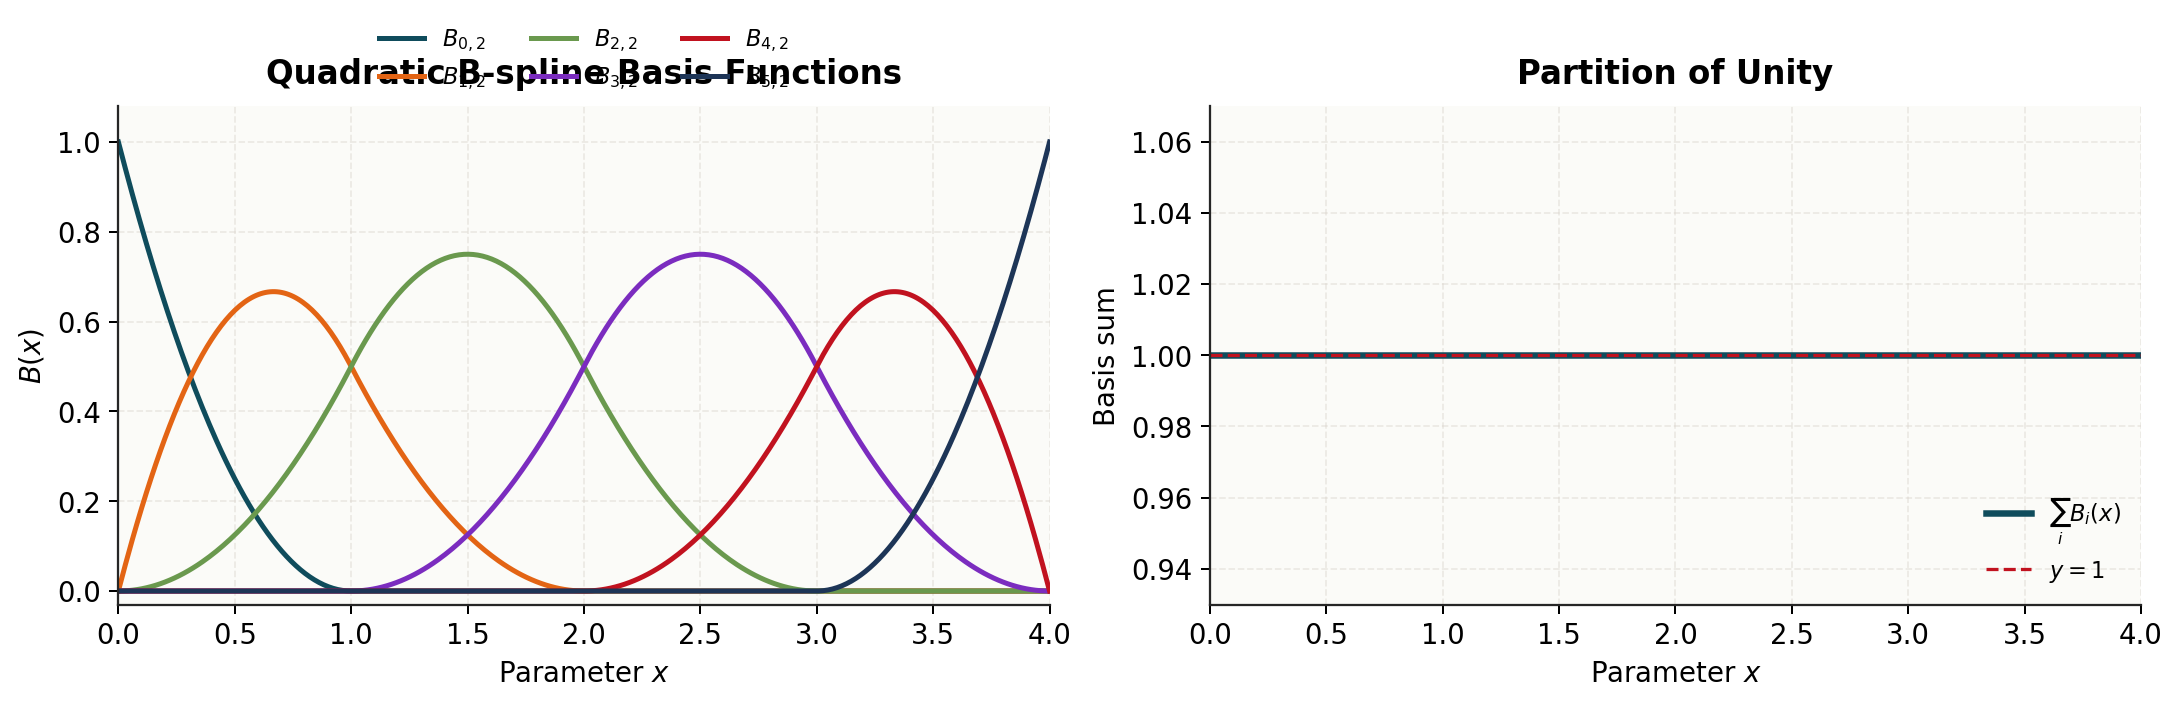
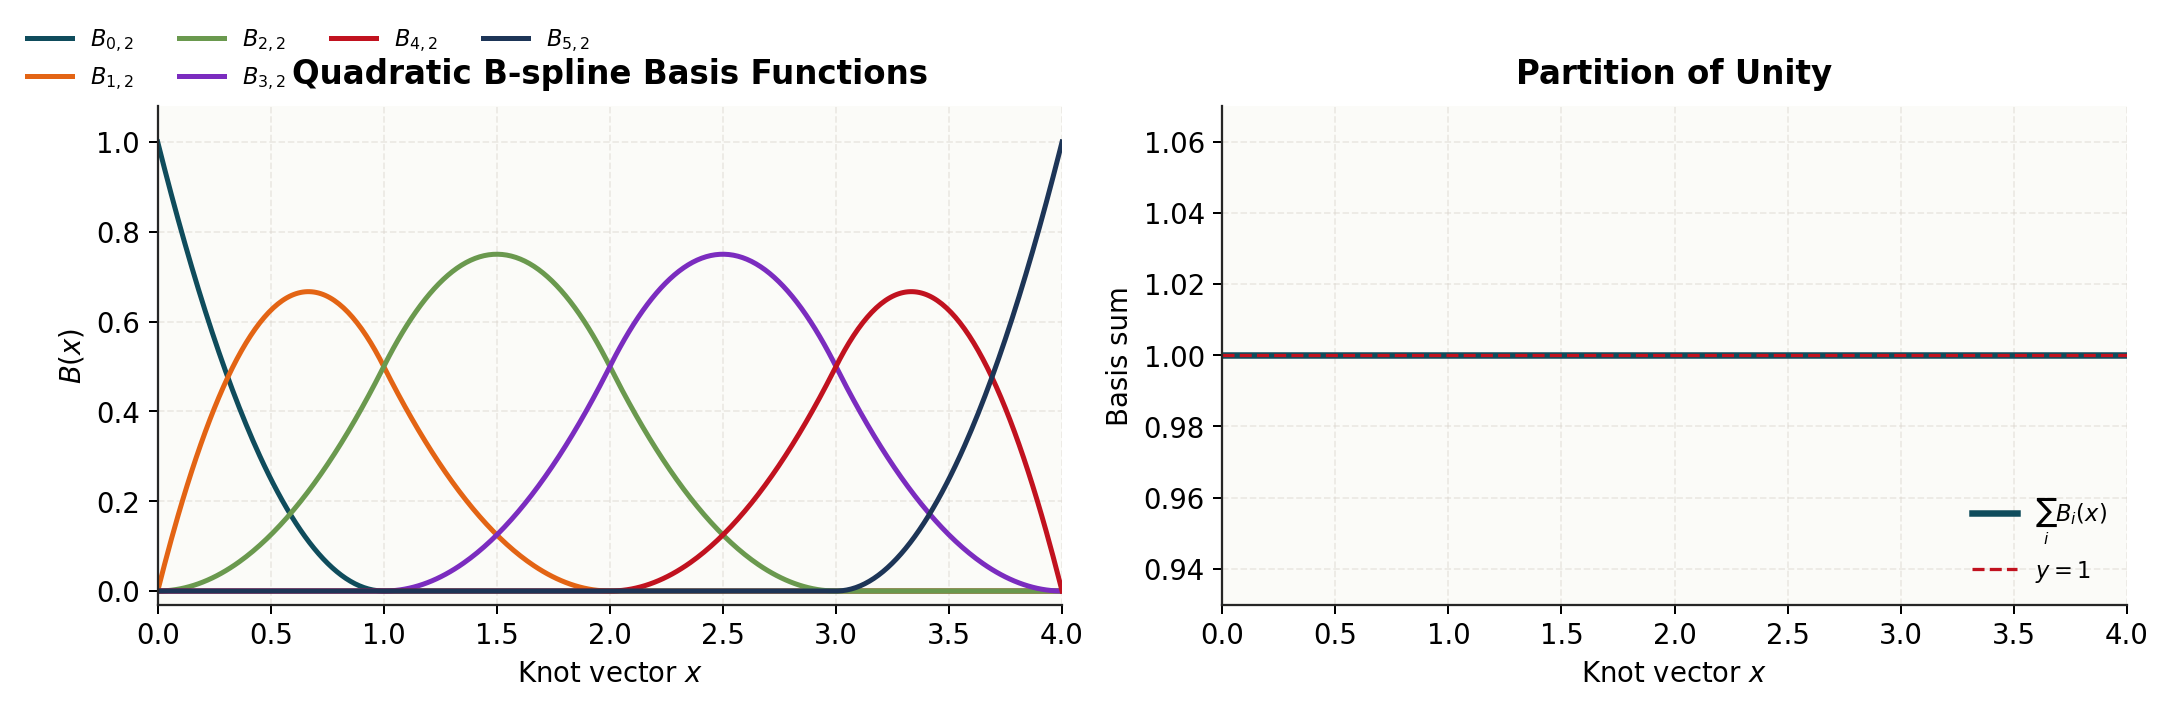
correct the error

diff --git a/generate_images.py b/generate_images.py
@@ -99,13 +99,13 @@ for i in range(n_basis):
     total += yi
     axes[0].plot(x, yi, lw=2.0, color=LINE[i % len(LINE)], label=rf"$B_{{{i},{degree}}}$")
 
-style(axes[0], xlabel="Parameter $x$", ylabel="$B(x)$", title="Quadratic B-spline Basis Functions")
+style(axes[0], xlabel="Knot vector $x$", ylabel="$B(x)$", title="Quadratic B-spline Basis Functions")
 axes[0].set_xlim(0, 4); axes[0].set_ylim(-0.03, 1.08)
-axes[0].legend(ncol=3, loc="upper center", bbox_to_anchor=(0.5, 1.20))
+axes[0].legend(ncol=4, loc="best", bbox_to_anchor=(0.5, 1.20))
 
 axes[1].plot(x, total, lw=2.6, color=LINE[0], label=r"$\sum_i B_i(x)$")
 axes[1].axhline(1, color=LINE[4], ls="--", lw=1.3, label="$y = 1$")
-style(axes[1], xlabel="Parameter $x$", ylabel="Basis sum", title="Partition of Unity")
+style(axes[1], xlabel="Knot vector $x$", ylabel="Basis sum", title="Partition of Unity")
 axes[1].set_xlim(0, 4); axes[1].set_ylim(0.93, 1.07)
 axes[1].legend(loc="lower right")
 
@@ -216,25 +216,20 @@ B_q = evaluate_hierarchical_basis(Tp, pts_q)
 f_vals_q = 2 * np.pi**2 * np.sin(np.pi * pts_q[:, 0]) * np.sin(np.pi * pts_q[:, 1])
 f_h = (1.0 / n_q**2) * (B_q.T @ f_vals_q)
 
-# Boundary DOFs (support touches x/y = 0 or 1)
-cumulative = 0
-is_interior = np.zeros(Tp.nfuncs, dtype=bool)
-eps = 1e-12
-for lev in range(Tp.nlevels):
-    active = Tp.afunc_level[lev]
-    supp = Tp.spaces[lev].basis_supports[active]   # (n, 2, 2)
-    on_bd = (
-        (supp[:, 0, 0] < eps) | (supp[:, 0, 1] > 1 - eps) |
-        (supp[:, 1, 0] < eps) | (supp[:, 1, 1] > 1 - eps)
-    )
-    n_lev = Tp.nfuncs_level[lev]
-    is_interior[cumulative: cumulative + n_lev] = ~on_bd
-    cumulative += n_lev
-
-interior = np.where(is_interior)[0]
-if len(interior) == 0:
-    # fallback: keep all DOFs (clamped ends already zero)
-    interior = np.arange(Tp.nfuncs)
+# Boundary DOFs: a basis function is a boundary DOF if it is nonzero
+# on any of the four edges x=0, x=1, y=0, y=1.
+# We sample each edge and check which columns of the basis matrix are nonzero.
+n_edge = 30
+t_edge = np.linspace(0, 1, n_edge)
+edge_pts = np.vstack([
+    np.column_stack([np.zeros(n_edge), t_edge]),   # x = 0
+    np.column_stack([np.ones(n_edge),  t_edge]),   # x = 1
+    np.column_stack([t_edge, np.zeros(n_edge)]),   # y = 0
+    np.column_stack([t_edge, np.ones(n_edge)]),    # y = 1
+])
+B_edge = evaluate_hierarchical_basis(Tp, edge_pts)
+on_boundary = np.any(B_edge > 1e-12, axis=0)      # shape (nfuncs,)
+interior = np.where(~on_boundary)[0]
 
 Ap_csr = Ap.tocsr()
 A_int  = Ap_csr[np.ix_(interior, interior)]
@@ -255,6 +250,8 @@ err     = np.abs(u_h - u_exact)
 
 lvls_u = np.linspace(0, u_exact.max(), 18)
 lvls_e = np.linspace(0, err.max() + 1e-12, 18)
+
+print(max(u_exact.ravel()), max(u_h.ravel()), max(err.ravel()))
 
 def cfill(fig, ax, X, Y, Z, levels, cmap, title, clabel):
     cf = ax.contourf(X, Y, Z, levels=levels, cmap=cmap)

diff --git a/README.md b/README.md
@@ -66,7 +66,7 @@ jupyter lab notebooks/THBSplines_tutorial.ipynb
 
 ## Gallery
 
-### 1 -- B-spline basis functions
+### 1.  B-spline basis functions
 
 Six quadratic basis functions on `[0, 4]` with a clamped knot vector, and their sum (partition of unity).
 
@@ -74,7 +74,7 @@ Six quadratic basis functions on `[0, 4]` with a clamped knot vector, and their 
 
 ---
 
-### 2 -- Adaptive hierarchical mesh
+### 2.  Adaptive hierarchical mesh
 
 Two rounds of local dyadic refinement applied to the lower-left region of a biquadratic mesh.
 
@@ -91,7 +91,7 @@ Each function has compact support that is smaller than or equal to the correspon
 
 ---
 
-### 4 -- Mass and stiffness matrix sparsity
+### 4.  Mass and stiffness matrix sparsity
 
 Sparsity patterns of the assembled mass matrix **M** and stiffness matrix **A**
 on an adaptively refined biquadratic space.
@@ -100,9 +100,9 @@ on an adaptively refined biquadratic space.
 
 ---
 
-### 5 -- Poisson equation solved with THB-splines
+### 5. Poisson equation solved with THB-splines
 
-The Poisson problem -Delta u = f on [0,1]^2 with exact solution u = sin(pi*x)sin(pi*y),
+The Poisson problem $\Delta u = f$  on $[0,1]^2$ with exact solution $u = sin(\pi x)sin(\pi  y)$,
 solved by a Galerkin THB-spline method on an adaptively refined mesh.
 
 ![Poisson solution: exact, FEM, and pointwise error](THBSplines/images/poisson_solution.png)
